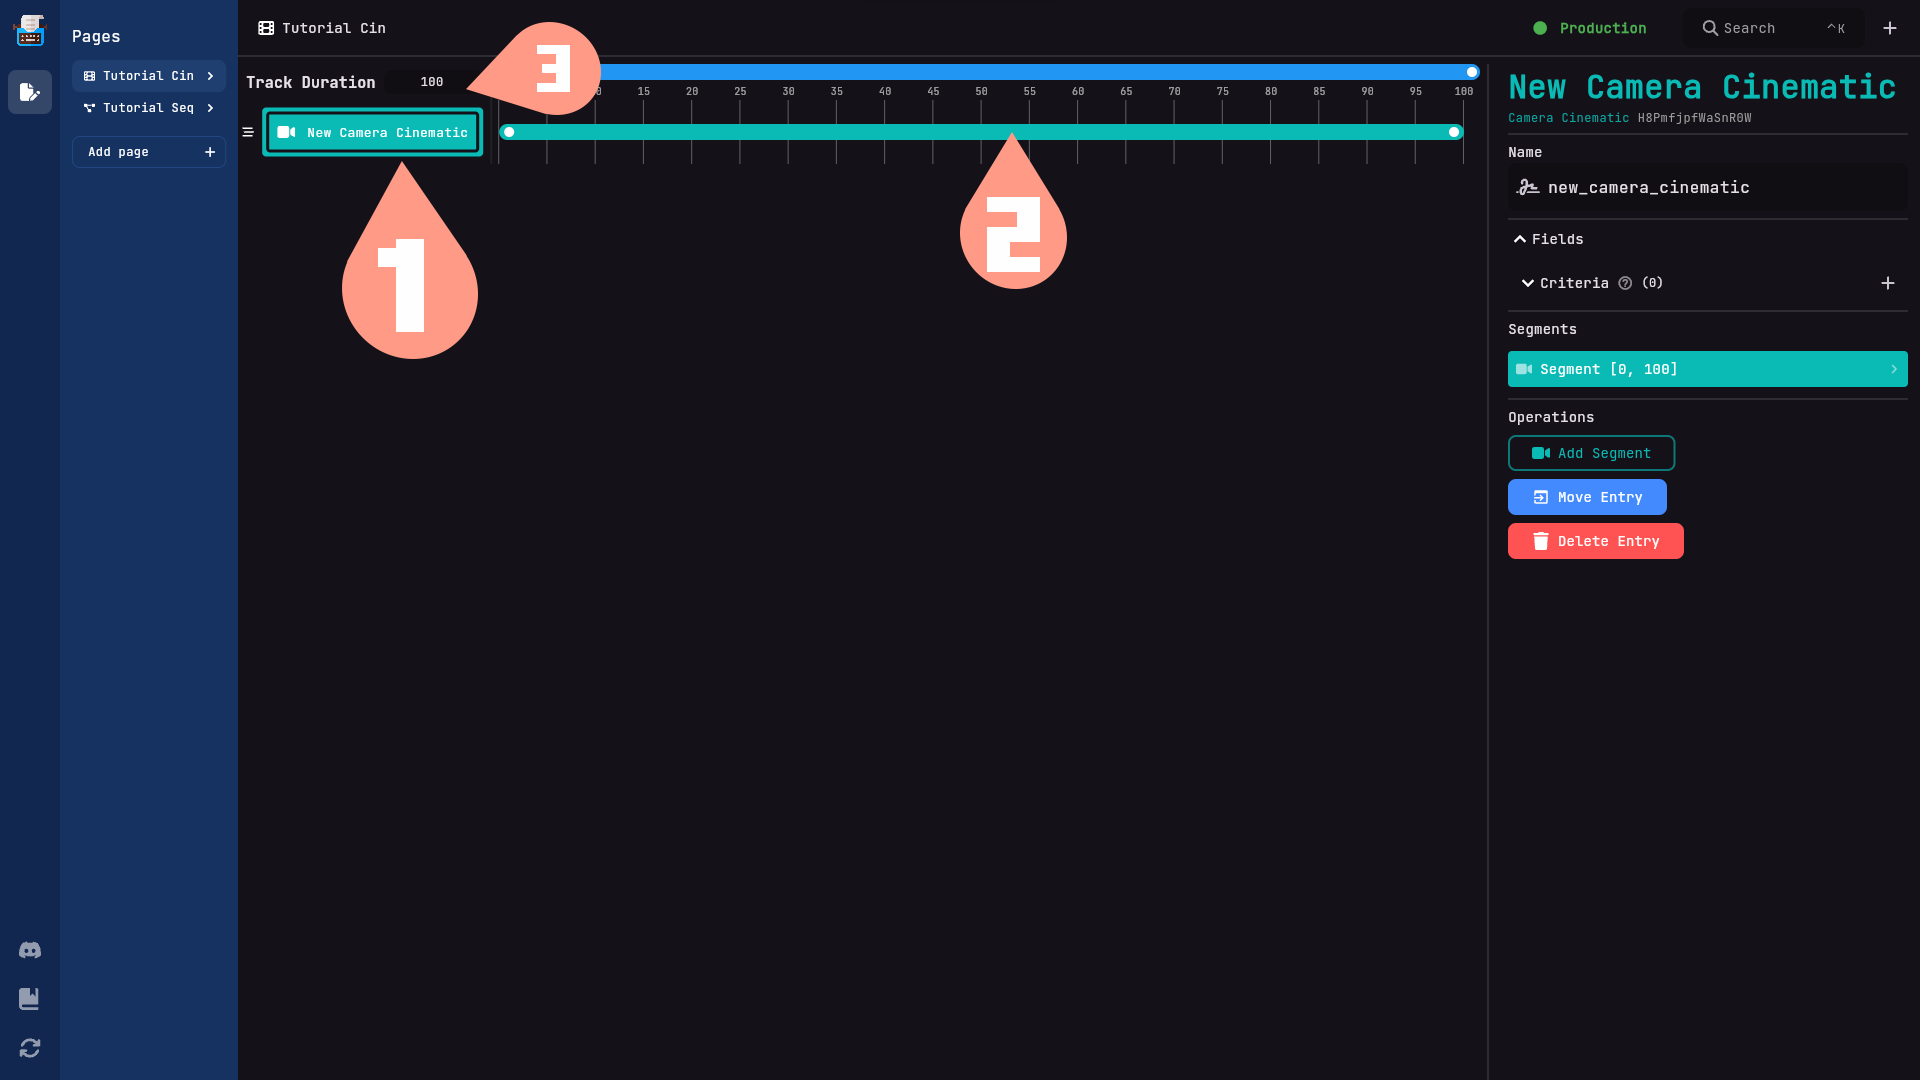
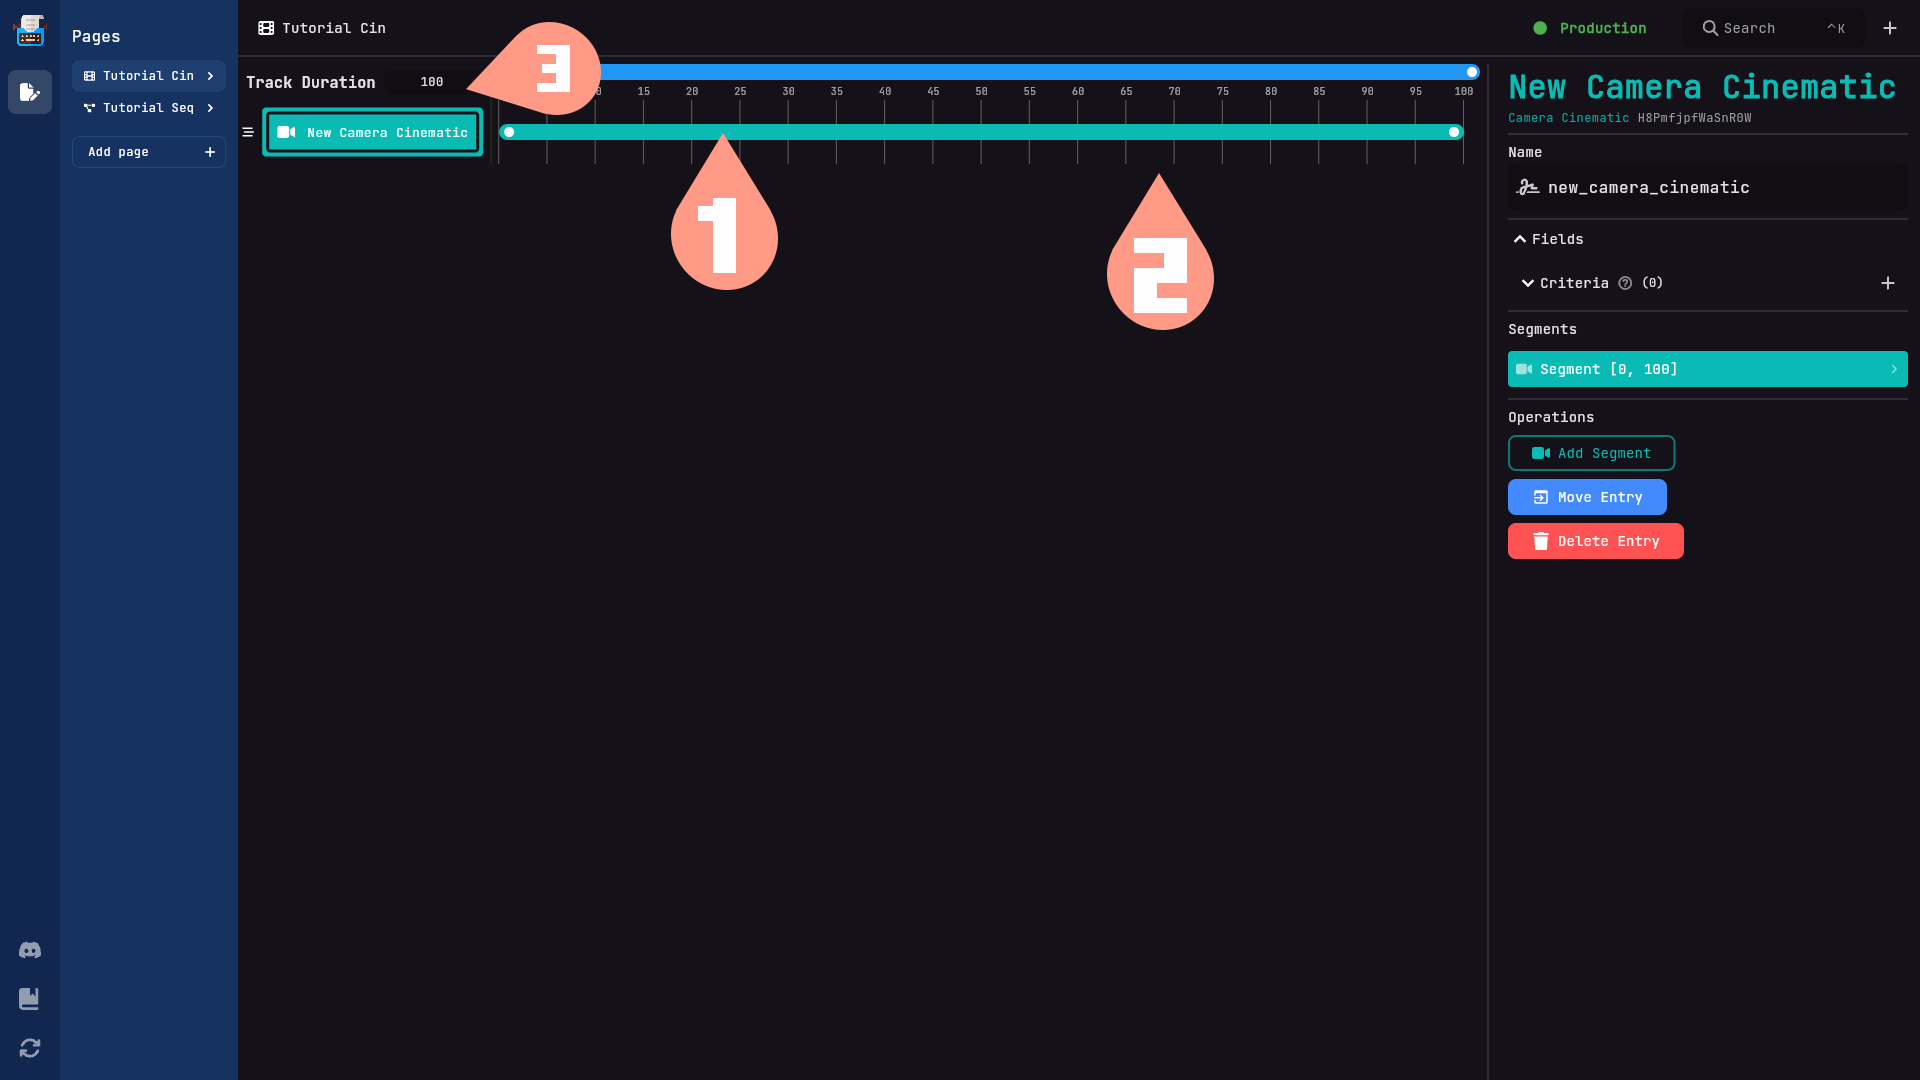
Small fixes

Changed region(s): [[0.5, 0.1222, 0.6562, 0.3056], [0.1562, 0.1528, 0.25, 0.3361], [0.3438, 0.1222, 0.4062, 0.275]]

diff --git a/documentation/versioned_docs/version-0.4.1/docs/06-adapters.md b/documentation/versioned_docs/version-0.4.1/docs/06-adapters.md
@@ -6,7 +6,7 @@ Adapters are additions that can be added to Typewriter to add more functionality
 You are most likely going to need the [Basic Adapter](../adapters/BasicAdapter). It contains essential building blocks for using Typewriter.
 :::
 
-# Pre-made Adapters {#pre-made-adapters}
+## Pre-made Adapters {#pre-made-adapters}
 
 | Adapter Name                                                      | Description                                                                              | Download Link                                                |
 | ----------------------------------------------------------------- | ---------------------------------------------------------------------------------------- | ------------------------------------------------------------ |
@@ -19,6 +19,6 @@ You are most likely going to need the [Basic Adapter](../adapters/BasicAdapter).
 | [Superior Skyblock Adapter](../adapters/SuperiorSkyblockAdapter/) | Allows you to use Superior Skyblock islands in your Typewriter scripts.                  | [Download](https://github.com/gabber235/TypeWriter/releases) |
 | [CombatLogX Adapter](../adapters/CombatLogXAdapter/)              | Check if a player is in combat or not with the CombatLogX plugin.                        | [Download](https://github.com/gabber235/TypeWriter/releases) |
 
-# Creating an Adapter
+## Creating an Adapter
 
 Want to contribute to Typewriter? You can create your own adapter for any plugin you want, or just Minecraft itself. To start contributing, see the [development guide](../develop/01-index.mdx).
